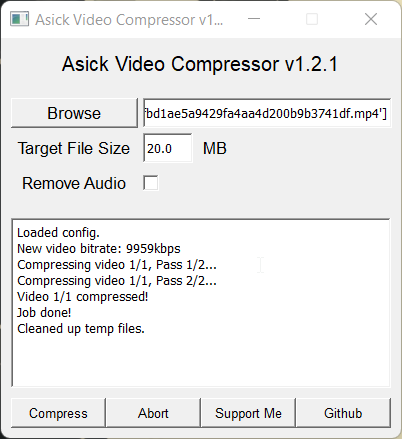
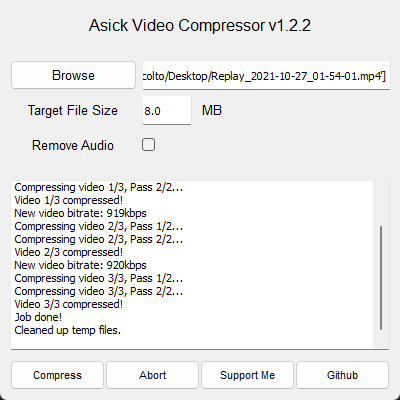
v1.2.2

diff --git a/src/worker.py b/src/worker.py
@@ -30,7 +30,7 @@ class Worker(QObject):
         # Compression settings
         self.target_file_size: float = float(file_size)
         self.remove_audio: bool = bool(remove_audio)
-        self.audio_bitrate: int = 64
+        self.audio_bitrate: int = 128
         self.video_bitrate: int
 
         # Internal
@@ -47,18 +47,18 @@ class Worker(QObject):
         self.output: str
 
     def install_ffmpeg(self) -> None:
-        if not os.path.exists("%s/ffmpeg" % os.getcwd()):
-            os.mkdir("%s/ffmpeg" % os.getcwd())
+        if not os.path.exists(f"{os.getcwd()}/ffmpeg"):
+            os.mkdir(f"{os.getcwd()}/ffmpeg")
             self.signal_message.emit("FFmpeg directory created.", False)
 
-        if not os.path.exists("%s/downloads" % os.getcwd()):
-            os.mkdir("%s/downloads" % os.getcwd())
+        if not os.path.exists(f"{os.getcwd()}/downloads"):
+            os.mkdir(f"{os.getcwd()}/downloads")
             self.signal_message.emit("Downloads directory created.", False)
 
-        if not os.path.isfile("%s/ffmpeg.exe" % self.ffmpeg_path):
+        if not os.path.isfile(f"{self.ffmpeg_path}/ffmpeg.exe"):
             with open(self.ffmpeg_download_path, "wb") as f:
                 self.signal_message.emit(
-                    "Downloading ffmpeg to %s" % self.ffmpeg_download_path, True
+                    f"Downloading ffmpeg to {self.ffmpeg_download_path}", True
                 )
                 response = requests.get(self.ffmpeg_download_link, stream=True)
                 total_length = response.headers.get("content-length")
@@ -74,14 +74,7 @@ class Worker(QObject):
                         f.write(data)
                         progress_percent = (dl / total_length) * 100
                         self.signal_message.emit(
-                            "Downloading FFmpeg: %s/%s (%s%s)"
-                            % (
-                                round(dl),
-                                round(total_length),
-                                round(progress_percent),
-                                "%",
-                            ),
-                            True,
+                            f"Downloading FFmpeg: ({round(progress_percent)}%)", True
                         )
 
             self.signal_message.emit("Unzipping contents...", True)
@@ -91,12 +84,12 @@ class Worker(QObject):
 
             if files:
                 for name in files:
-                    shutil.move(name, "%s/ffmpeg" % os.getcwd())
+                    shutil.move(name, f"{os.getcwd()}/ffmpeg")
 
             self.signal_ffmpeg_install_completed.emit()
 
     def get_files(self) -> None:
-        for path, dirlist, filelist in os.walk(os.getcwd() + "/ffmpeg"):
+        for path, dirlist, filelist in os.walk(f"{os.getcwd()}/ffmpeg"):
             for name in fnmatch.filter(filelist, "*.exe"):
                 yield os.path.join(path, name)
 
@@ -112,20 +105,24 @@ class Worker(QObject):
             self.get_video_path(self.cur_video),
             self.get_video_name(self.cur_video),
         )
-        pass_1 = (
-            "%s -i %s -y -c:v libx264 -vf scale=720:trunc(ow/a/2)*2 -b:v %sk -pass 1 -an -f mp4 TEMP"
-            % (self.get_ffmpeg_path(), self.input, self.video_bitrate)
+        pass_1 = "%s -i %s -y -c:v libx264 -b:v %sk -r 30.0 -pass 1 -an -f mp4 TEMP" % (
+            self.get_ffmpeg_path(),
+            self.input,
+            self.video_bitrate,
         )
         self.proc = subprocess.Popen(pass_1, stdout=subprocess.PIPE, shell=False)
 
     def pass_2(self) -> None:
         audio = "-b:a %sk" % self.audio_bitrate if not self.remove_audio else "-an"
-        pass_2 = "%s -y -i %s -y -c:v libx264 -vf scale=720:trunc(ow/a/2)*2 -b:v %sk -pass 2 -c:a aac %s %s" % (
-            self.get_ffmpeg_path(),
-            self.input,
-            self.video_bitrate,
-            audio,
-            self.output,
+        pass_2 = (
+            "%s -y -i %s -y -c:v libx264 -b:v %sk -r 30.0 -pass 2 -c:a aac %s %s"
+            % (
+                self.get_ffmpeg_path(),
+                self.input,
+                self.video_bitrate,
+                audio,
+                self.output,
+            )
         )
         self.proc = subprocess.Popen(pass_2, stdout=subprocess.PIPE, shell=False)
 
@@ -138,8 +135,7 @@ class Worker(QObject):
 
             self.compressing = True
             self.signal_message.emit(
-                "Compressing video %s/%s, Pass %s/2..."
-                % (self.cur_queue + 1, len(self.selected_videos), self.cur_pass),
+                f"Compressing video {self.cur_queue + 1}/{len(self.selected_videos)}, Pass {self.cur_pass}/2...",
                 False,
             )
 
@@ -154,8 +150,7 @@ class Worker(QObject):
                     self.compress()
                 else:
                     self.signal_message.emit(
-                        "Video %s/%s compressed!"
-                        % (self.cur_queue + 1, len(self.selected_videos)),
+                        f"Video {self.cur_queue + 1}/{len(self.selected_videos)} compressed!",
                         False,
                     )
 
@@ -188,12 +183,11 @@ class Worker(QObject):
 
             if magic <= 64.0:
                 self.signal_message.emit(
-                    "[WARNING] Calculated video bitrate is extremely low (%skbps)!\nIncrease your target file size for better quality."
-                    % magic,
+                    f"[WARNING] Calculated video bitrate is extremely low ({magic}kbps)!\nIncrease your target file size for better quality.",
                     False,
                 )
             else:
-                self.signal_message.emit("New video bitrate: %skbps" % magic, False)
+                self.signal_message.emit(f"New video bitrate: {magic}kbps", False)
 
             return magic
         else:
@@ -201,11 +195,8 @@ class Worker(QObject):
 
     def get_video_duration(self, video) -> float:
         try:
-            video = '"%s"' % video
-            cmd = (
-                "%s -v error -show_entries format=duration -of default=noprint_wrappers=1:nokey=1 %s"
-                % (self.get_ffprobe_path(), video)
-            )
+            video = f"{video}"
+            cmd = f"{self.get_ffprobe_path()} -v error -show_entries format=duration -of default=noprint_wrappers=1:nokey=1 {video}"
             proc = subprocess.Popen(cmd, stdout=subprocess.PIPE)
             return float(proc.stdout.readline())
         except:
@@ -230,10 +221,10 @@ class Worker(QObject):
         return just_path
 
     def get_ffmpeg_path(self) -> str:
-        return "%s/ffmpeg/ffmpeg.exe" % os.getcwd()
+        return f'"{os.getcwd()}/ffmpeg/ffmpeg.exe"'
 
     def get_ffprobe_path(self) -> str:
-        return "%s/ffmpeg/ffprobe.exe" % os.getcwd()
+        return f'"{os.getcwd()}/ffmpeg/ffprobe.exe"'
 
     def list_videos(self, videos) -> list:
         if videos != "":

diff --git a/src/main.py b/src/main.py
@@ -24,8 +24,8 @@ class Main(QMainWindow):
         super(Main, self).__init__(parent)
 
         # App info
-        self.version: str = "v1.2.1"
-        self.title: str = "Asick Video Compressor %s" % self.version
+        self.version: str = "v1.2.2"
+        self.title: str = f"Asick Video Compressor {self.version}"
         self.author: str = "Asick"
 
         # Video Options
@@ -33,12 +33,12 @@ class Main(QMainWindow):
         self.selected_videos: list = []
         self.target_file_size: float = 20.0
         self.remove_audio: bool = False
-        self.ffmpeg_path: str = "%s/ffmpeg" % os.getcwd()
+        self.ffmpeg_path: str = f"{os.getcwd()}/ffmpeg"
         self.ffmpeg_download_link: str = (
             "https://www.gyan.dev/ffmpeg/builds/ffmpeg-release-essentials.zip"
         )
         self.ffmpeg_download_path: str = (
-            "%s/downloads/ffmpeg-release-essentials.zip" % os.getcwd()
+            f"{os.getcwd()}/downloads/ffmpeg-release-essentials.zip"
         )
 
         # States
@@ -55,7 +55,7 @@ class Main(QMainWindow):
 
         # Title
         self.label_title: QLabel = QLabel(
-            "%s Video Compressor %s" % (self.author, self.version), self
+            f"{self.author} Video Compressor {self.version}", self
         )
         self.label_title.setFont(QFont("Arial", 12))
         self.label_title.setFixedWidth(self.width)
@@ -157,7 +157,7 @@ class Main(QMainWindow):
         self.button_github.setFixedHeight(30)
         self.button_github.setToolTip("Open Github page.")
         self.button_github.move(round(self.width * 0.75) - 5, self.height - 40)
-        self.button_github.clicked.connect(self.support)
+        self.button_github.clicked.connect(self.github)
 
         # Init
         self.init_UI()
@@ -190,7 +190,7 @@ class Main(QMainWindow):
         else:
             self.config.add_section("Options")
             self.set_config()
-            with open(os.getcwd() + "/config.ini", "w") as config:
+            with open(f"{os.getcwd()}/config.ini", "w") as config:
                 self.config.write(config)
 
             config.close()
@@ -201,7 +201,7 @@ class Main(QMainWindow):
         self.remove_audio = self.cb_remove_audio.isChecked()
         self.set_config()
 
-        with open(os.getcwd() + "/config.ini", "w") as config:
+        with open(f"{os.getcwd()}/config.ini", "w") as config:
             self.config.write(config)
 
         config.close()
@@ -346,9 +346,9 @@ class Main(QMainWindow):
         index = 1
         for e in list_to_parse:
             if index != len(list_to_parse):
-                s += "%s," % e
+                s += f"{e},"
             else:
-                s += "%s" % e
+                s += f"{e}"
 
             index += 1
 
@@ -365,9 +365,9 @@ class Main(QMainWindow):
 
     def print_console(self, message, overwrite_all=False) -> None:
         if overwrite_all:
-            self.output.setText("%s\n" % message)
+            self.output.setText(f"{message}\n")
         else:
-            self.output.setText(self.output.toPlainText() + "%s\n" % message)
+            self.output.setText(self.output.toPlainText() + f"{message}\n")
 
         self.output.moveCursor(QTextCursor.End)
         print(message)

diff --git a/src/setup.py b/src/setup.py
@@ -8,13 +8,13 @@ build_exe_options = {
 
 setup(
     name="Asick Video Compressor",
-    version="1.2.1",
+    version="1.2.2",
     description="A video compressor created in Python",
     options={"build_exe": build_exe_options},
     executables=[
         Executable(
             "main.py",
-            target_name="Asick Video Compressor v1.2.1.exe",
+            target_name="Asick Video Compressor v1.2.2.exe",
             base="Win32GUI",
             icon="icon.ico",
         )
